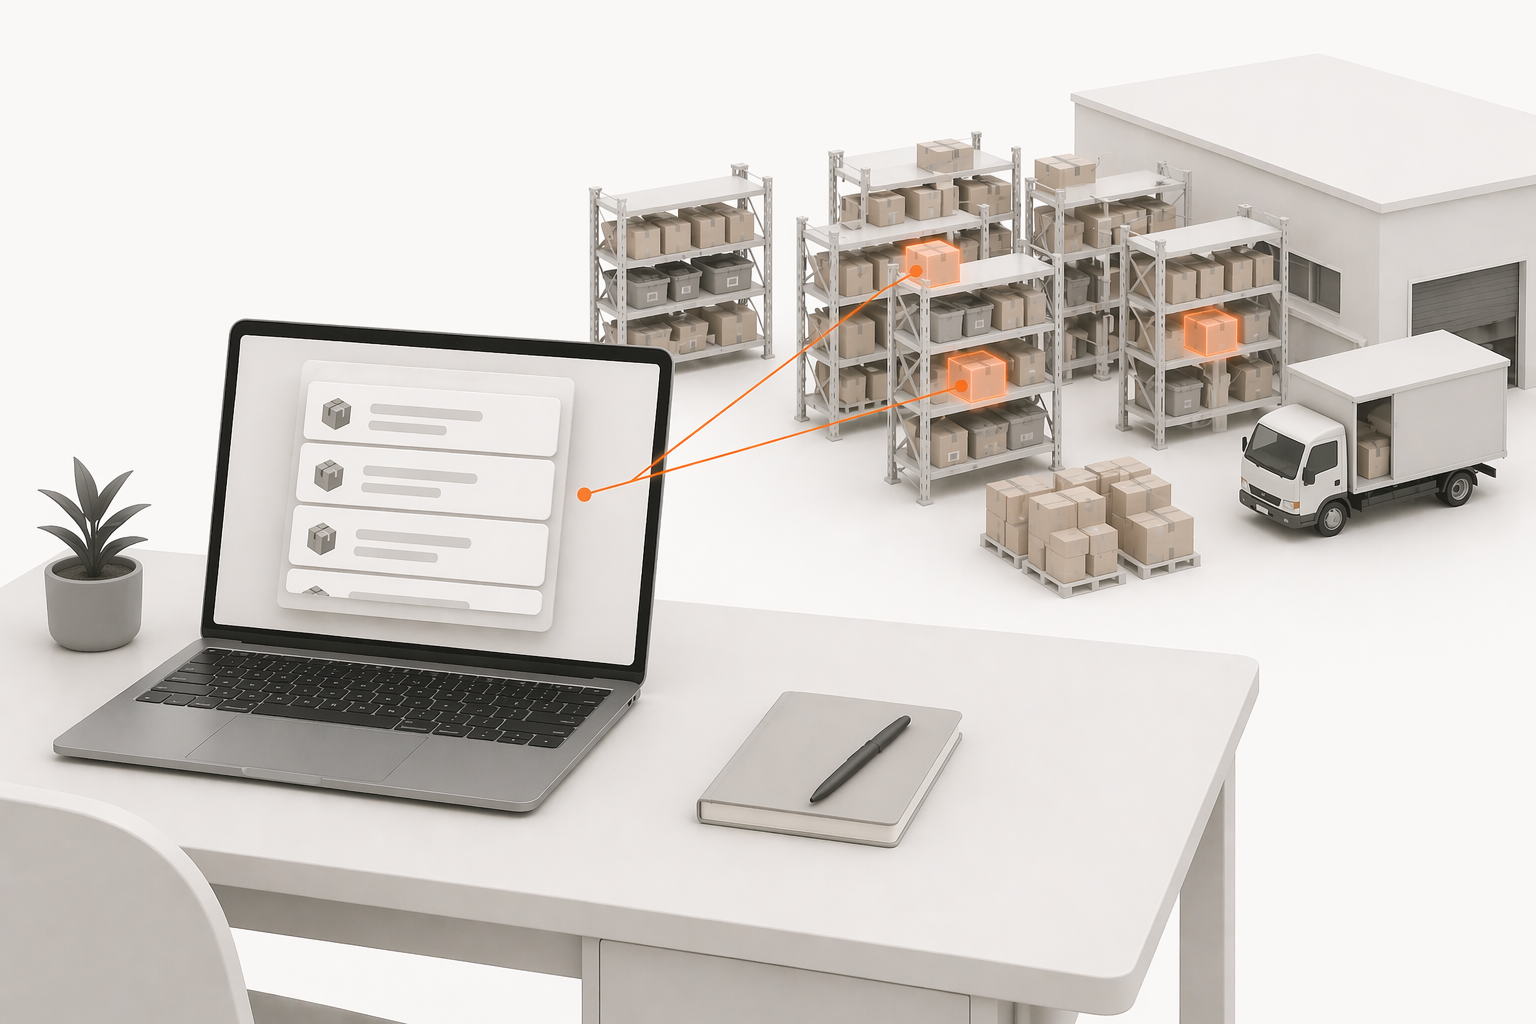
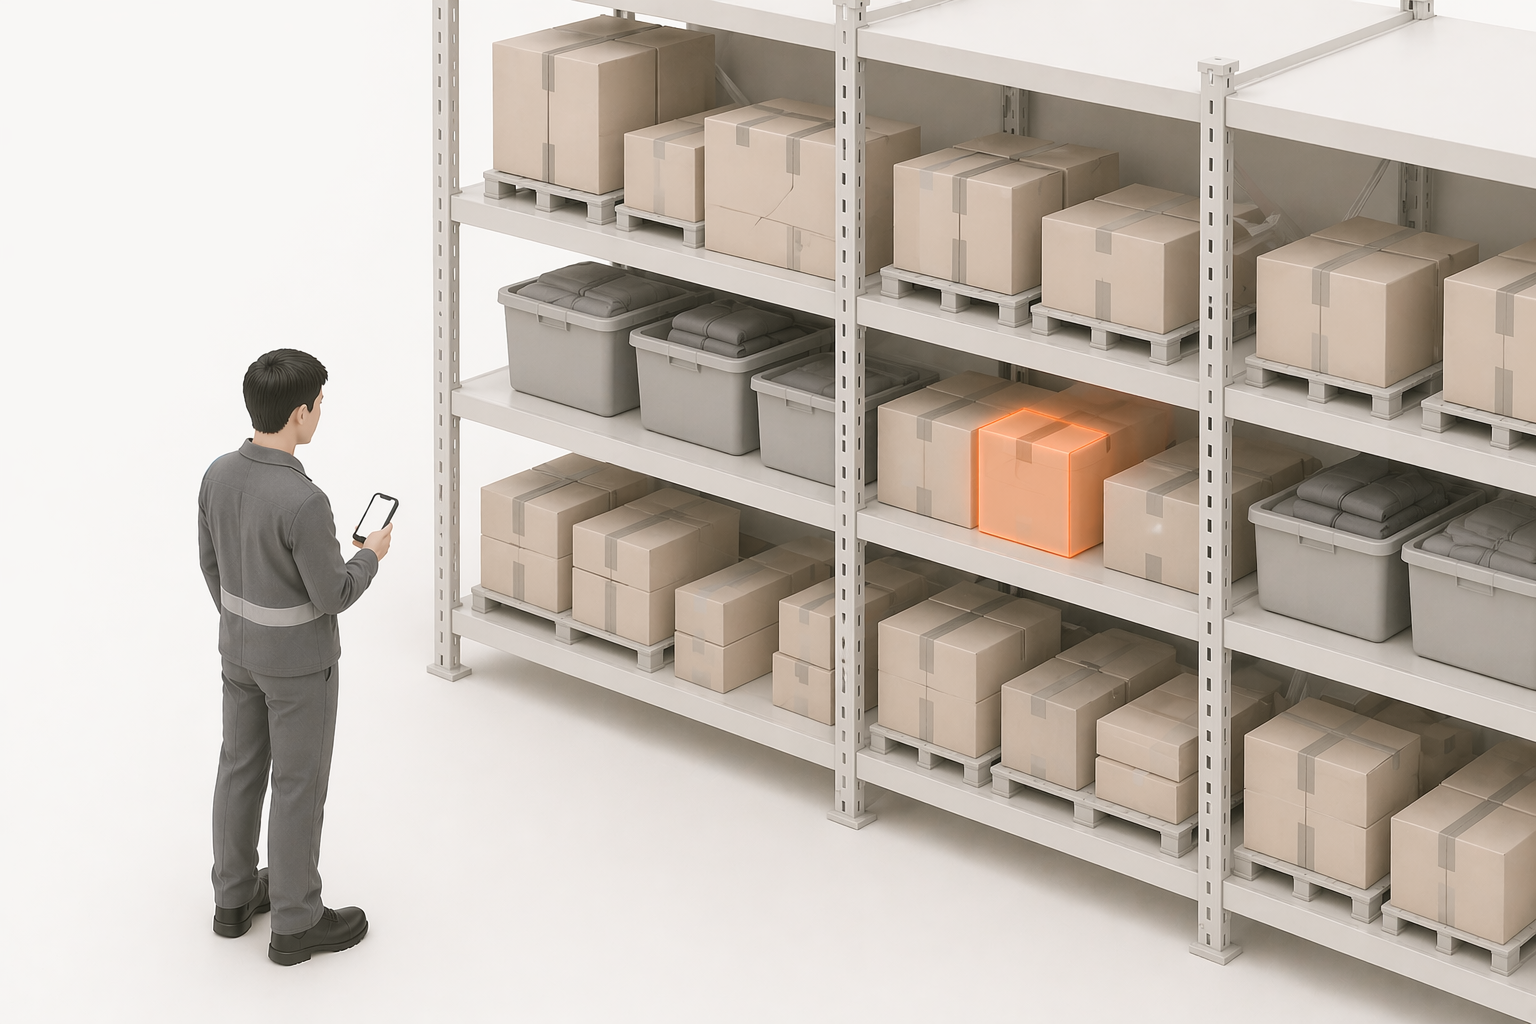
feat: add ArticleImage component, add images to first article, add all product screenshots to landing page

diff --git a/apps/marketing/components/article/ArticleImage.tsx b/apps/marketing/components/article/ArticleImage.tsx
@@ -1,0 +1,69 @@
+// components/article/ArticleImage.tsx
+// Renders article images with SEO-optimised alt text and captions.
+// If src is empty, renders a styled placeholder — drop in real src when ready.
+// All images served from https://www.lasyncro.com/ (landing page static assets).
+
+interface ArticleImageProps {
+  src?: string
+  alt: string
+  caption?: string
+  priority?: boolean
+}
+
+export default function ArticleImage({ src, alt, caption, priority = false }: ArticleImageProps) {
+  const fullSrc = src ? `https://www.lasyncro.com/${src}` : null
+
+  return (
+    <figure style={{ margin: '32px 0' }}>
+      {fullSrc ? (
+        // eslint-disable-next-line @next/next/no-img-element
+        <img
+          src={fullSrc}
+          alt={alt}
+          loading={priority ? 'eager' : 'lazy'}
+          style={{
+            width: '100%',
+            height: 'auto',
+            borderRadius: '10px',
+            border: '1px solid #E8E6E0',
+            display: 'block',
+          }}
+        />
+      ) : (
+        <div style={{
+          width: '100%',
+          aspectRatio: '16/9',
+          borderRadius: '10px',
+          border: '2px dashed #E8E6E0',
+          background: '#F3F2EF',
+          display: 'flex',
+          flexDirection: 'column',
+          alignItems: 'center',
+          justifyContent: 'center',
+          gap: '8px',
+          padding: '24px',
+        }}>
+          <span style={{ fontSize: '24px' }}>🖼</span>
+          <span style={{ fontSize: '13px', fontWeight: 500, color: '#6B7280', textAlign: 'center' }}>
+            {alt}
+          </span>
+          <span style={{ fontSize: '11px', color: '#9CA3AF', textAlign: 'center' }}>
+            Image placeholder — add src prop to render
+          </span>
+        </div>
+      )}
+      {caption && (
+        <figcaption style={{
+          fontSize: '12px',
+          color: '#9CA3AF',
+          textAlign: 'center',
+          marginTop: '8px',
+          lineHeight: 1.5,
+          fontStyle: 'italic',
+        }}>
+          {caption}
+        </figcaption>
+      )}
+    </figure>
+  )
+}

diff --git a/apps/marketing/app/blog/[slug]/page.tsx b/apps/marketing/app/blog/[slug]/page.tsx
@@ -9,10 +9,11 @@ import { generateArticleSchema, generateFAQSchema, generateBreadcrumbSchema } fr
 import Schema from '@/components/seo/Schema'
 import ArticleLayout from '@/components/article/ArticleLayout'
 import QuickAnswer from '@/components/article/QuickAnswer'
+import ArticleImage from '@/components/article/ArticleImage'
 import { Metadata } from 'next'
 
 // MDX components available inside .mdx files
-const components = { QuickAnswer }
+const components = { QuickAnswer, ArticleImage }
 
 export async function generateStaticParams() {
   return getAllSlugs('blog').map((slug) => ({ slug }))

diff --git a/apps/marketing/app/industries/[slug]/page.tsx b/apps/marketing/app/industries/[slug]/page.tsx
@@ -9,9 +9,10 @@ import { generateSoftwareSchema, generateFAQSchema, generateBreadcrumbSchema } f
 import Schema from '@/components/seo/Schema'
 import ArticleLayout from '@/components/article/ArticleLayout'
 import QuickAnswer from '@/components/article/QuickAnswer'
+import ArticleImage from '@/components/article/ArticleImage'
 import { Metadata } from 'next'
 
-const components = { QuickAnswer }
+const components = { QuickAnswer, ArticleImage }
 
 export async function generateStaticParams() {
   return getAllSlugs('industries').map((slug) => ({ slug }))

diff --git a/apps/marketing/app/features/[slug]/page.tsx b/apps/marketing/app/features/[slug]/page.tsx
@@ -8,9 +8,10 @@ import { generateSoftwareSchema, generateFAQSchema, generateBreadcrumbSchema } f
 import Schema from '@/components/seo/Schema'
 import ArticleLayout from '@/components/article/ArticleLayout'
 import QuickAnswer from '@/components/article/QuickAnswer'
+import ArticleImage from '@/components/article/ArticleImage'
 import { Metadata } from 'next'
 
-const components = { QuickAnswer }
+const components = { QuickAnswer, ArticleImage }
 
 export async function generateStaticParams() {
   return getAllSlugs('features').map((slug) => ({ slug }))

diff --git a/apps/marketing/app/compare/[slug]/page.tsx b/apps/marketing/app/compare/[slug]/page.tsx
@@ -9,9 +9,10 @@ import { generateArticleSchema, generateFAQSchema, generateBreadcrumbSchema } fr
 import Schema from '@/components/seo/Schema'
 import ArticleLayout from '@/components/article/ArticleLayout'
 import QuickAnswer from '@/components/article/QuickAnswer'
+import ArticleImage from '@/components/article/ArticleImage'
 import { Metadata } from 'next'
 
-const components = { QuickAnswer }
+const components = { QuickAnswer, ArticleImage }
 
 export async function generateStaticParams() {
   return getAllSlugs('compare').map((slug) => ({ slug }))
